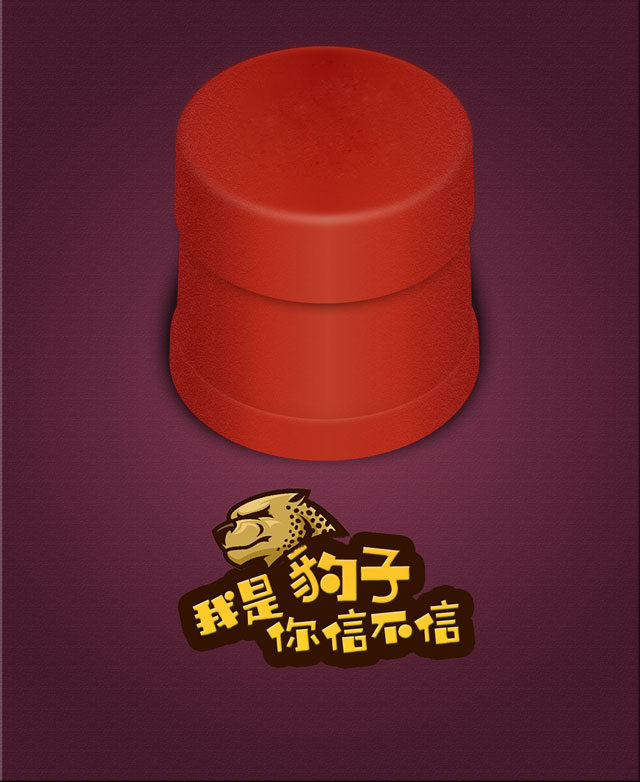
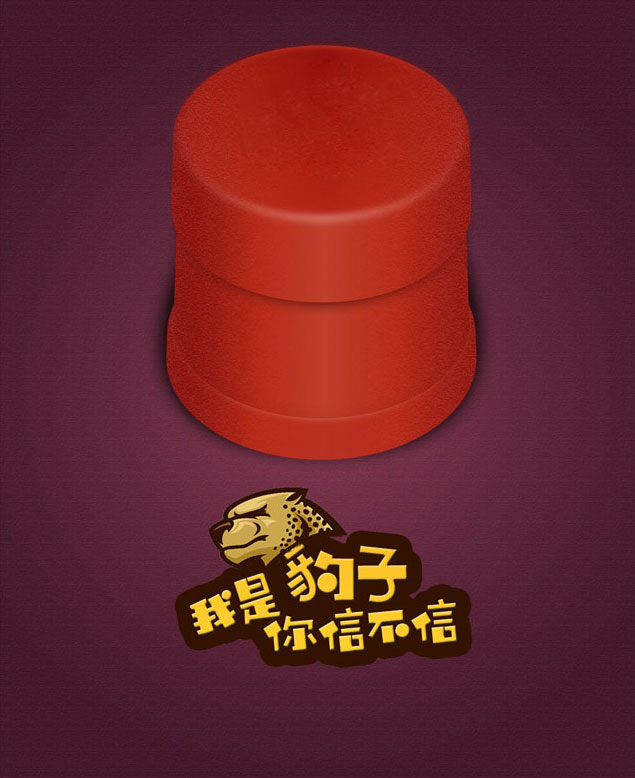
change all btns face

diff --git a/scrollNum.html b/scrollNum.html
@@ -108,7 +108,7 @@
         bottom: 100%;
         display: block;
         width: 100%;
-        background-color: #333;
+        background-color: #421728;
         background-image: url('adBg.jpg');
         background-repeat: no-repeat;
         background-size: 105% auto;
@@ -125,16 +125,22 @@
         font-size: 13px;
         text-align: center;
         line-height: 37px;
-        background-color: rgba(0, 0, 0, .35);
-        border-radius: 6px;
+        background-repeat: no-repeat;
+        background-size: 100% auto;
+        background-position: center center;
         position: absolute;
         bottom: 5px;
         right: 5px;
         text-decoration: none
     }
     
+    #szBtn {
+        background-image: url('szBtnBg.png');
+    }
+    
     #mbBtn {
         left: 5px;
+        background-image: url('mbBg0.png');
     }
     
     .BtnWrp {
@@ -150,17 +156,29 @@
     #musBtn {
         display: inline-block;
         text-align: center;
+        background-repeat: no-repeat;
+        background-size: 100% auto;
+        background-position: center center;
         box-sizing: border-box;
-        border: 1px solid #fff;
-        color: #fff;
-        border-radius: 4px;
         height: 35px;
         width: 35px;
         line-height: 33px;
         margin: 5px;
     }
     
+    #plsBtn {
+        background-image: url('add1.png');
+    }
+    
+    #musBtn {
+        background-image: url('add.png');
+    }
+    
     .BtnWrp div.clear {
+        background-image: url('btnWrpBg.png');
+        background-repeat: no-repeat;
+        background-size: 110px auto;
+        background-position: center center;
         position: relative;
         top: 5px;
         text-align: center;
@@ -173,8 +191,9 @@
         padding: 0;
         background: none;
         border: none;
+        font-weight: bold;
+        font-size: 15px;
         box-sizing: border-box;
-        border-radius: 4px;
         line-height: 35px;
         text-align: center;
     }
@@ -195,13 +214,13 @@
 
     </div>
     <div class="BtnWrp clear">
-        <a id="mbBtn" href="javascript:;">隐藏</a>
+        <a id="mbBtn" href="javascript:;"></a>
         <div class="clear">
             <a id="musBtn" onclick="minusDice()" href="javascript:;">-</a>
             <input id="diceNumber" type="number" min="1" max="6" value="6">
             <a id="plsBtn" onclick="addDice()" href="javascript:;">+</a>
         </div>
-        <a id="szBtn" href="javascript:;">骰它</a>
+        <a id="szBtn" href="javascript:;"></a>
     </div>
     <script>
         var arrNums = [{
@@ -268,11 +287,11 @@
         function togCover() {
             var isShow = mubu.getAttribute("data-tog");
             if (isShow == "off") {
-                mbBtn.textContent = "显示";
+                mbBtn.style.backgroundImage = "url('mbBg1.png')";
                 mubu.setAttribute("data-tog", "on");
                 mubu.style.bottom = "100px";
             } else {
-                mbBtn.textContent = "隐藏";
+                mbBtn.style.backgroundImage = "url('mbBg0.png')";
                 mubu.setAttribute("data-tog", "off");
                 mubu.style.bottom = "";
             }
